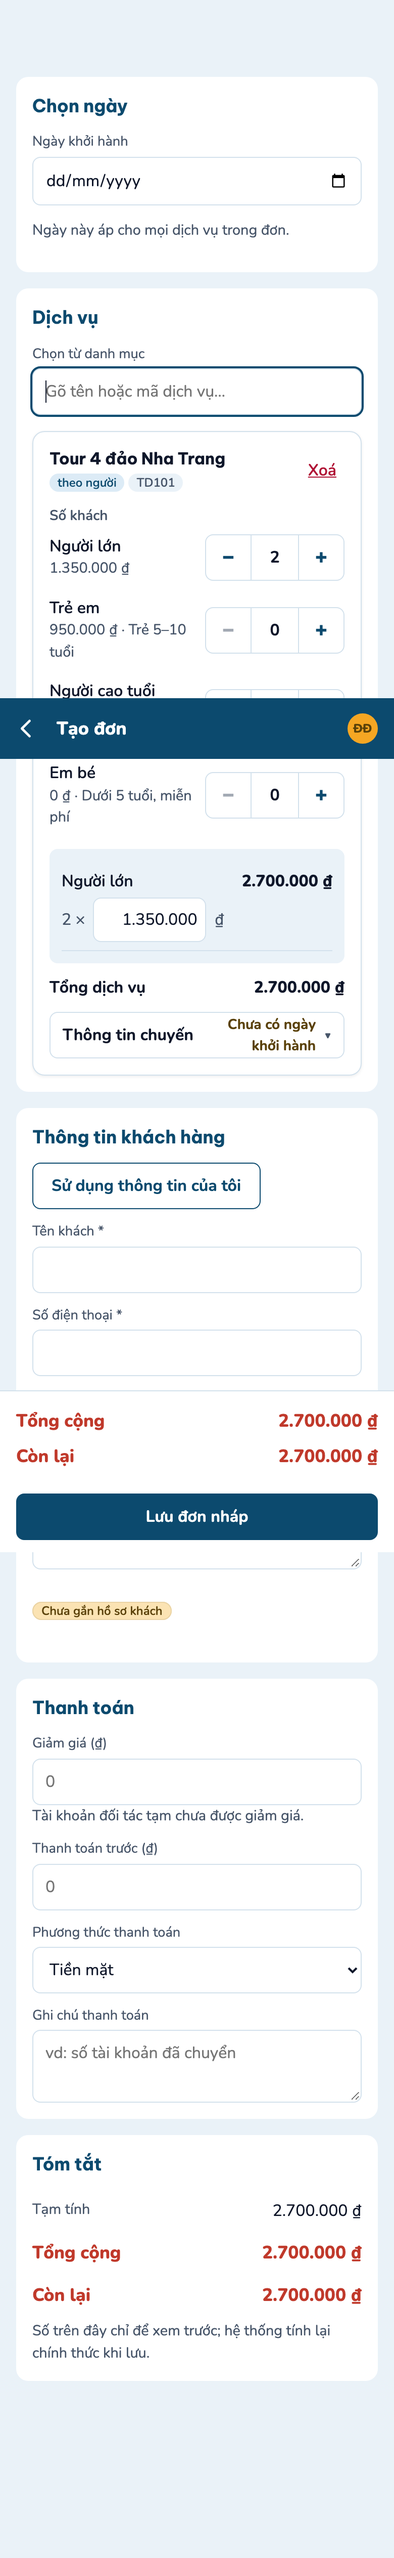
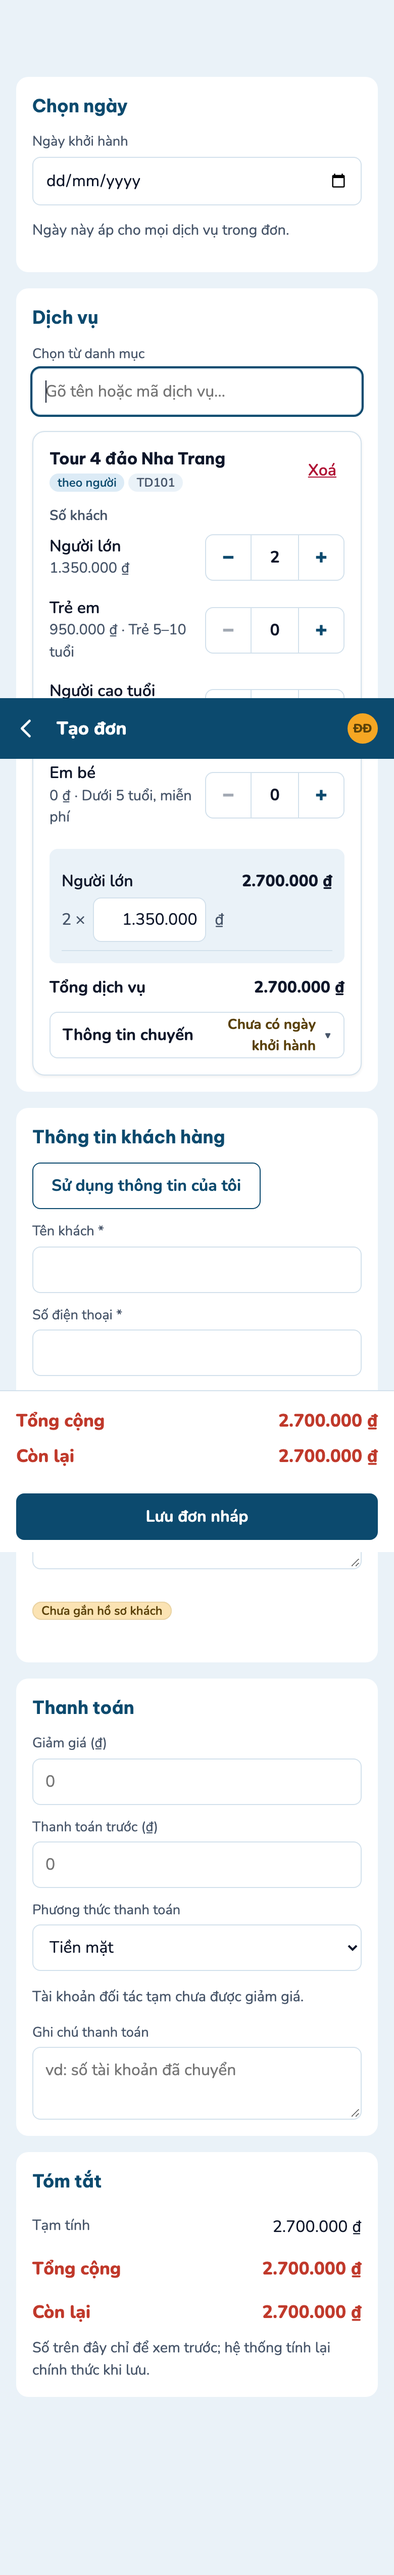
Dòng báo "tạm chưa được giảm giá" của Đối tác nằm gọn dưới hàng Thanh toán (bản 1.17)
Bản 1.15 đặt dòng báo ngay sau ô giảm giá, trong cột hẹp của hàng ba ô,
nên ở máy tính xuống 3 hàng. Nay dòng báo là một đoạn riêng dưới cả hàng,
ô giảm giá trỏ tới nó bằng aria-describedby. Kịch bản Chrome tìm dòng báo
theo nội dung và đếm số hàng thật: đỏ trên mã cũ (3 hàng), xanh sau khi
sửa (1 hàng; 6/6, axe 0 vi phạm); ba a2-smoke đều OK.

Claude-Session: https://claude.ai/code/session_0135J8R3ooMXoq76XBYH3rp8

diff --git a/web/order-form.ts b/web/order-form.ts
@@ -376,7 +376,10 @@ if (retailOnly) {
   // Sau loadOrder: đơn cũ đã lưu giảm giá > 0 thì để ô sửa được (đưa về 0), không thì khoá.
   const discountEl = field("discount") as HTMLInputElement;
   discountEl.readOnly = num("discount") === 0;
-  discountEl.after(h("span", { class: "muted" }, "Tài khoản đối tác tạm chưa được giảm giá."));
+  // Dòng báo nằm DƯỚI cả hàng ba ô Thanh toán (không trong cột hẹp của ô giảm giá — ở máy tính từng xuống 3 hàng), ô trỏ tới nó cho trình đọc màn hình.
+  const hint = h("p", { class: "muted", id: "discount-hint" }, "Tài khoản đối tác tạm chưa được giảm giá.");
+  discountEl.setAttribute("aria-describedby", hint.id);
+  (discountEl.closest(".grid") ?? discountEl).after(hint);
 }
 recompute();
 

diff --git a/src/shared/changelog.ts b/src/shared/changelog.ts
@@ -11,6 +11,13 @@ export interface ReleaseNote { readonly version: string; readonly date: string; 
 /** Mới nhất ở ĐẦU. */
 export const CHANGELOG: readonly ReleaseNote[] = [
   {
+    version: "1.17",
+    date: "2026-09-26",
+    items: [
+      { kind: "sua", text: "Form lập đơn của tài khoản đối tác: dòng báo “tạm chưa được giảm giá” nay nằm gọn một hàng dưới mục Thanh toán, không còn bị bóp hẹp." },
+    ],
+  },
+  {
     version: "1.16",
     date: "2026-09-26",
     items: [

diff --git a/docs/evidence/2026-09-26-mo-danh-muc-doi-tac/README.md b/docs/evidence/2026-09-26-mo-danh-muc-doi-tac/README.md
@@ -69,3 +69,18 @@ trang, không phải lỗi bố cục.
   người phụ trách hiện chữ gì với Đối tác.
 - Máy tính: dòng "Tài khoản đối tác tạm chưa được giảm giá." nằm trong cột hẹp của ô Giảm giá nên xuống 3 dòng, lệch hàng so với hai
   ô bên cạnh. Ô Giảm giá khi khoá trông giống ô sửa được (không có dấu hiệu khoá ngoài dòng chữ). Chỉ là quan sát bề mặt.
+
+## Chạy lại 2026-09-26 — bản 1.17 (dòng báo giảm giá xuống 3 hàng)
+
+Lỗi: ở máy tính, dòng "Tài khoản đối tác tạm chưa được giảm giá." nằm trong cột hẹp của hàng ba ô Thanh toán nên xuống 3 hàng. Sửa
+(`web/order-form.ts`): dòng báo thành `<p class="muted" id="discount-hint">` đặt SAU cả hàng ba ô (`.grid`), ô `#discount` có
+`aria-describedby="discount-hint"`. Kịch bản bước 2/2m nay tìm dòng báo theo NỘI DUNG và đếm số hàng hiển thị (`Range.getClientRects`):
+máy tính phải 1 hàng, điện thoại ≤ 2; bước 2 kiểm thêm `aria-describedby`.
+
+- Mã chưa sửa (gốc `9e0fb88`): **đỏ** đúng bước 2 — `dòng báo ở máy tính phải nằm gọn 1 hàng — {"tag":"SPAN","id":"","cls":"muted",…,"rows":3}`;
+  4 bước ✓, 1 bước ✗ (không axe). Ảnh của lần đỏ ghi ra thư mục tạm, không đè ảnh ở đây.
+- Mã đã sửa: **6/6 ✓ (có axe, 0 vi phạm critical/serious)**; dòng báo `{"tag":"P","id":"discount-hint","rows":1,"visible":true}`. Hai ảnh
+  `anh/doi-tac-form-may-tinh.png`, `anh/doi-tac-form-dien-thoai.png` được chụp lại từ lần này.
+- Ba kịch bản gốc cho `web/order-form.ts` (`a2-smoke-form`, `a2-smoke-order`, `a2-smoke-sheet`): cả ba OK.
+- Kịch bản vẫn gọi `GET /api/catalog` bằng Đối tác (cổng `orders` của 1.15): khi nhánh A0 đưa route về `office` thì phải đổi sang
+  `/api/catalog/for-order` (ghi ở `docs/HANDOFF-N1.md` "Việc còn treo").
